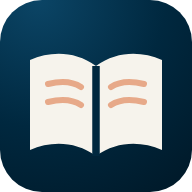
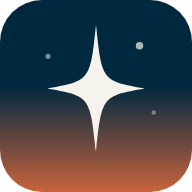
Portal Futuro v1.16
Claude-Session: https://claude.ai/code/session_011oVBKHtV2veaFqoftfGkWy

diff --git a/sw.js b/sw.js
@@ -2,7 +2,7 @@
    Rede primeiro: com internet, sempre a versão mais nova do site.
    Sem internet, a última cópia guardada (os guias continuam abrindo).
    Nada de outros sites é guardado (Supabase, vídeo, fontes). */
-var CACHE = "portal-futuro-v1";
+var CACHE = "portal-futuro-v2";
 var SHELL = ["/", "/index.html", "/assets/css/style.css", "/assets/js/app.js", "/assets/js/config.js", "/assets/img/favicon.svg", "/assets/img/icon-192.png", "/manifest.webmanifest", "/404.html", "/assets/css/404.css"];
 self.addEventListener("install", function (e) {
   e.waitUntil(caches.open(CACHE).then(function (c) { return c.addAll(SHELL); }).then(function () { return self.skipWaiting(); }));

diff --git a/README.md b/README.md
@@ -81,6 +81,7 @@ As datas fixas (Unicamp, ENEM e feriados) e as faixas salariais ficam no início
 
 ## Histórico de versões
 
+- **v1.16 (20/10/2026):** novo ícone do site e do aplicativo: estrela-guia sobre um céu de amanhecer (`favicon.svg` e os ícones PNG do aplicativo, com versão "maskable" para Android).
 - **v1.15 (20/10/2026):** instalar como aplicativo no celular e no computador (PWA: `manifest.webmanifest`, `sw.js`, ícones), com passo a passo para iPhone; página "não encontrada" (`404.html`); botões para levar provas e agenda ao Google Agenda (arquivo `.ics`, com lembrete); cronômetro de estudo (Pomodoro 25/5/15) no Planejamento; revisão de acessibilidade (contraste das cores, link "Pular para o conteúdo", foco visível no teclado); seção "Números do portal" no perfil, só para o dono, com totais sem dados pessoais (`supabase/numeros.sql`).
 - **v1.14 (20/10/2026):** cartão de prévia para WhatsApp e redes (`assets/img/og-cover.jpg`); botão "Dar opinião" que guarda sugestões e problemas na tabela `feedback` do Supabase (só o dono lê, no Table Editor); datas conferidas em fontes oficiais (incluídos gabarito e convocados da Unicamp; 14/07 retirado por não ser feriado em Campinas; incluído o Dia do Evangélico, 12/08); biblioteca 3D baixada só ao abrir a página Campus.
 - **v1.13 (20/10/2026):** crédito do vídeo da abertura (MotionSites AI, modelo Velorah) no rodapé, no README e na política de privacidade; removida a busca pelo arquivo local do vídeo, que não existe.
